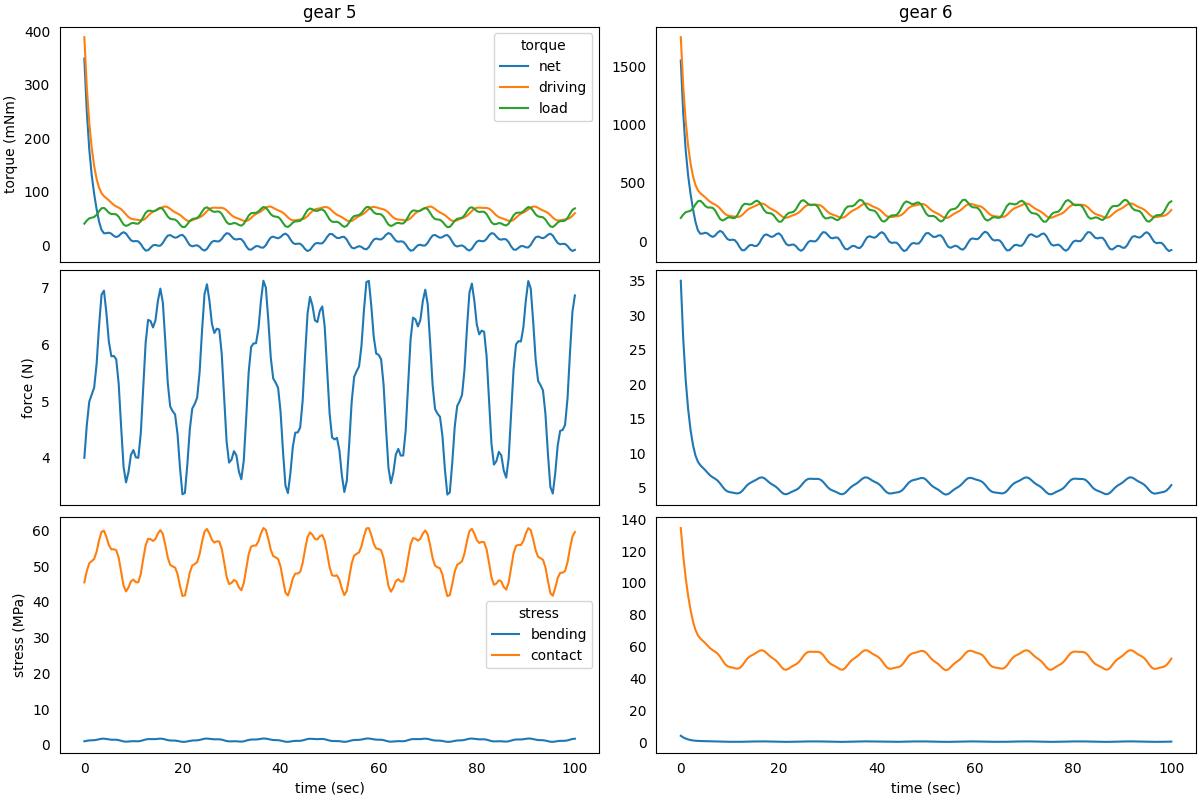
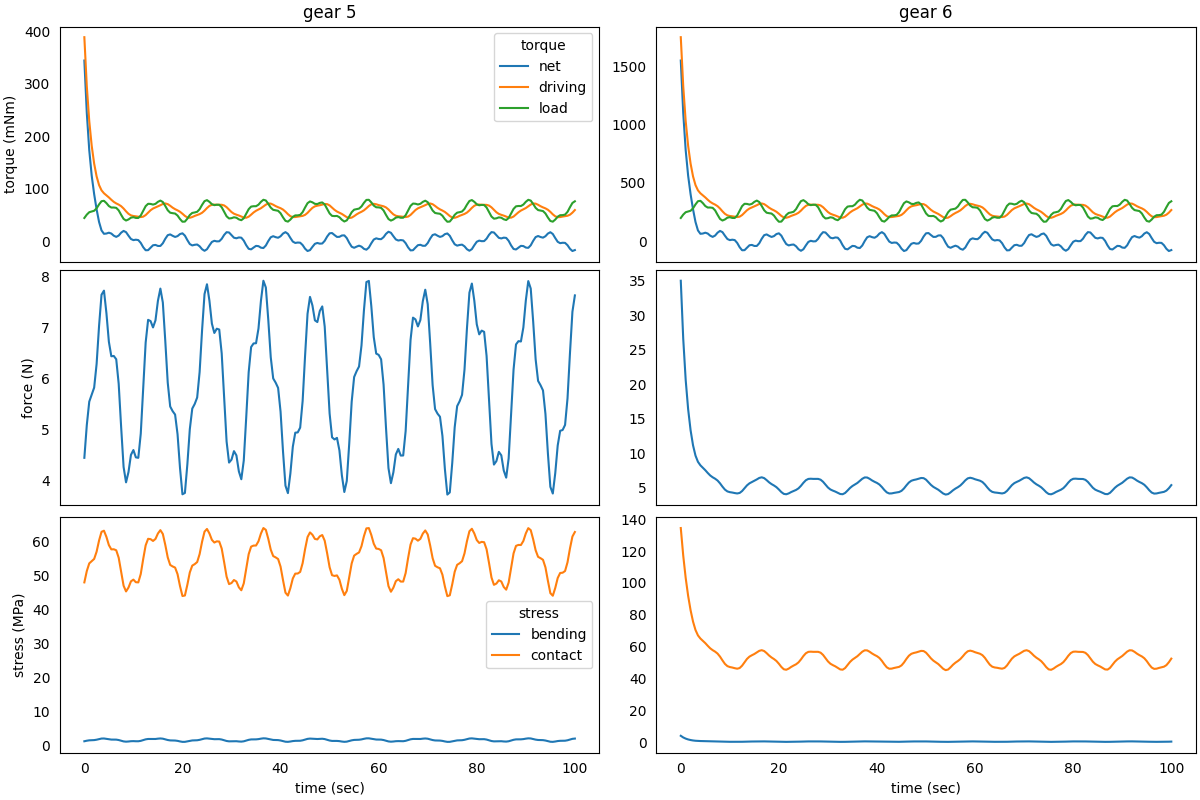
DOC: update documentation examples after fixing bug on torque computation

Changed region(s): [[0.0308, 0.2188, 0.4933, 0.3125], [0.0308, 0.75, 0.0617, 0.8125], [0.0308, 0.6562, 0.0617, 0.6875]]

diff --git a/docs/source/examples/1_simple_powertrain/README.md b/docs/source/examples/1_simple_powertrain/README.md
@@ -54,7 +54,7 @@ gear_6 = SpurGear(name = 'gear 6',
 Then it is necessary to specify the connection types between the 
 components. We choose to study a non-ideal powertrain so, in order to 
 take into account power loss in matings due to friction, we specify a 
-gear mating efficiency below `$100\%$`:
+`$90\%$` gear mating efficiency:
 
 ```python
 from gearpy.utils import add_fixed_joint, add_gear_mating
@@ -127,14 +127,14 @@ powertrain.snapshot(target_time = Time(10, 'sec'))
 ```text
 Mechanical Powertrain Status at Time = 10 sec
           angular position (rad)  angular speed (rad/s)  angular acceleration (rad/s^2)  torque (Nm)  driving torque (Nm)  load torque (Nm)  pwm
-motor                9714.908984            1119.894923                        1.085094     0.000787             0.002871          0.002083  1.0
-flywheel             9714.908984            1119.894923                        1.085094     0.000787             0.002871          0.002083     
-gear 1               9714.908984            1119.894923                        1.085094     0.000787             0.002871          0.002083     
-gear 2               1214.363623             139.986865                        0.135637     0.004001             0.020668          0.016667     
-gear 3               1214.363623             139.986865                        0.135637     0.004001             0.020668          0.016667     
-gear 4                202.393937              23.331144                        0.022606     0.011606             0.111606          0.100000     
-gear 5                202.393937              23.331144                        0.022606     0.011606             0.111606          0.100000     
-gear 6                 40.478787               4.666229                        0.004521     0.002227             0.502227          0.500000          
+motor                9714.908984            1119.894923                        1.085094     0.000013             0.002871          0.002858  1.0
+flywheel             9714.908984            1119.894923                        1.085094     0.000013             0.002871          0.002858     
+gear 1               9714.908984            1119.894923                        1.085094     0.000013             0.002871          0.002858     
+gear 2               1214.363623             139.986865                        0.135637     0.000092             0.020668          0.020576     
+gear 3               1214.363623             139.986865                        0.135637     0.000092             0.020668          0.020576     
+gear 4                202.393937              23.331144                        0.022606     0.000495             0.111606          0.111111     
+gear 5                202.393937              23.331144                        0.022606     0.000495             0.111606          0.111111     
+gear 6                 40.478787               4.666229                        0.004521     0.002227             0.502227          0.500000               
 ```
 
 The default unit used for torques are not so convenient in this case, so 
@@ -151,14 +151,14 @@ powertrain.snapshot(target_time = Time(10, 'sec'),
 ```text
 Mechanical Powertrain Status at Time = 10 sec
           angular position (rot)  angular speed (rad/s)  angular acceleration (rad/s^2)  torque (mNm)  driving torque (mNm)  load torque (mNm)  pwm
-motor                1546.175787            1119.894923                        1.085094      0.787194              2.870527           2.083333  1.0
-flywheel             1546.175787            1119.894923                        1.085094      0.787194              2.870527           2.083333     
-gear 1               1546.175787            1119.894923                        1.085094      0.787194              2.870527           2.083333     
-gear 2                193.271973             139.986865                        0.135637      4.001131             20.667798          16.666667     
-gear 3                193.271973             139.986865                        0.135637      4.001131             20.667798          16.666667     
-gear 4                 32.211996              23.331144                        0.022606     11.606109            111.606109         100.000000     
-gear 5                 32.211996              23.331144                        0.022606     11.606109            111.606109         100.000000     
-gear 6                  6.442399               4.666229                        0.004521      2.227489            502.227489         500.000000          
+motor                1546.175787            1119.894923                        1.085094      0.012731              2.870527           2.857796  1.0
+flywheel             1546.175787            1119.894923                        1.085094      0.012731              2.870527           2.857796     
+gear 1               1546.175787            1119.894923                        1.085094      0.012731              2.870527           2.857796     
+gear 2                193.271973             139.986865                        0.135637      0.091666             20.667798          20.576132     
+gear 3                193.271973             139.986865                        0.135637      0.091666             20.667798          20.576132     
+gear 4                 32.211996              23.331144                        0.022606      0.494998            111.606109         111.111111     
+gear 5                 32.211996              23.331144                        0.022606      0.494998            111.606109         111.111111     
+gear 6                  6.442399               4.666229                        0.004521      2.227489            502.227489         500.000000                    
 ```
 
 Notice that the load torque applied on the *gear 6* is exactly the 
@@ -205,11 +205,4 @@ analysing the time snapshot: at 10 seconds the system is almost in a
 stationary state.  
 We can see that, as the time passes, the driving torque on *gear 6* 
 equals the constant load torque and, as a results, the net torque on the
-gear becomes close to zero.  
-Notice that the driving torque developed by the motor does not equals 
-the load torque: a difference between the two torque is established. 
-This is due to the fact we used a non-optimal gear matings 
-*gear 1*-*gear 2*, *gear 3*-*gear 4* and *gear 5*-*gear 6*, specifying 
-a `$90\%$` efficiency in all cases. As a result, the motor must develop 
-a torque slightly higher than what the load requires, in order to 
-overcome the power loss for friction in the gear matings.
+gear becomes close to zero.

diff --git a/docs/source/examples/3_gear_structural_analysis/README.md b/docs/source/examples/3_gear_structural_analysis/README.md
@@ -72,13 +72,13 @@ powertrain.snapshot(target_time = Time(10, 'sec'),
 ```text
 Mechanical Powertrain Status at Time = 10 sec
           angular position (rad)  angular speed (rad/s)  angular acceleration (rad/s^2)  torque (mNm)  driving torque (mNm)  load torque (mNm) tangential force (N) bending stress (MPa) contact stress (MPa)  pwm
-motor               11510.286813            1375.840709                        5.011918      0.379214              1.241126           0.861912                                                                 1.0
-flywheel            11510.286813            1375.840709                        5.011918      0.379214              1.241126           0.861912                                                                    
-gear 1              11510.286813            1375.840709                        5.011918      0.379214              1.241126           0.861912             0.172382             0.085762            12.916978     
-gear 2               1438.785852             171.980089                        0.626490      2.040811              8.936107           6.895297             0.223403             0.051239            14.704783     
-gear 3               1438.785852             171.980089                        0.626490      2.040811              8.936107           6.895297             0.919373             0.304933            24.803432     
-gear 4                239.797642              28.663348                        0.104415      6.883200             48.254979          41.371780             1.072333             0.169807            26.787411     
-gear 5                239.797642              28.663348                        0.104415      6.883200             48.254979          41.371780             4.137178             1.029149            46.213185     
+motor               11510.286813            1375.840709                        5.011918      0.058805              1.241126           1.182321                                                                 1.0
+flywheel            11510.286813            1375.840709                        5.011918      0.058805              1.241126           1.182321                                                                    
+gear 1              11510.286813            1375.840709                        5.011918      0.058805              1.241126           1.182321             0.236464             0.117644            15.128545     
+gear 2               1438.785852             171.980089                        0.626490      0.423395              8.936107           8.512712             0.223403             0.051239            14.704783     
+gear 3               1438.785852             171.980089                        0.626490      0.423395              8.936107           8.512712             1.135028              0.37646            27.559369     
+gear 4                239.797642              28.663348                        0.104415      2.286335             48.254979          45.968644             1.072333             0.169807            26.787411     
+gear 5                239.797642              28.663348                        0.104415      2.286335             48.254979          45.968644             4.596864             1.143499            48.712974     
 gear 6                 47.959528               5.732670                        0.020883     10.288508            217.147407         206.858899             4.342948             0.532224            47.348488     
 ```
 

diff --git a/docs/source/examples/4_dc_motor_electric_analysis/README.md b/docs/source/examples/4_dc_motor_electric_analysis/README.md
@@ -39,14 +39,14 @@ powertrain.snapshot(target_time = Time(10, 'sec'),
 ```text
 Mechanical Powertrain Status at Time = 10 sec
           angular position (rad)  angular speed (rad/s)  angular acceleration (rad/s^2)  torque (mNm)  driving torque (mNm)  load torque (mNm) electric current (A)  pwm
-motor               11510.286813            1375.840709                        5.011918      0.379214              1.241126           0.861912              0.79574  1.0
-flywheel            11510.286813            1375.840709                        5.011918      0.379214              1.241126           0.861912                          
-gear 1              11510.286813            1375.840709                        5.011918      0.379214              1.241126           0.861912                          
-gear 2               1438.785852             171.980089                        0.626490      2.040811              8.936107           6.895297                          
-gear 3               1438.785852             171.980089                        0.626490      2.040811              8.936107           6.895297                          
-gear 4                239.797642              28.663348                        0.104415      6.883200             48.254979          41.371780                          
-gear 5                239.797642              28.663348                        0.104415      6.883200             48.254979          41.371780                          
-gear 6                 47.959528               5.732670                        0.020883     10.288508            217.147407         206.858899                               
+motor               11510.286813            1375.840709                        5.011918      0.058805              1.241126           1.182321              0.79574  1.0
+flywheel            11510.286813            1375.840709                        5.011918      0.058805              1.241126           1.182321                          
+gear 1              11510.286813            1375.840709                        5.011918      0.058805              1.241126           1.182321                          
+gear 2               1438.785852             171.980089                        0.626490      0.423395              8.936107           8.512712                          
+gear 3               1438.785852             171.980089                        0.626490      0.423395              8.936107           8.512712                          
+gear 4                239.797642              28.663348                        0.104415      2.286335             48.254979          45.968644                          
+gear 5                239.797642              28.663348                        0.104415      2.286335             48.254979          45.968644                          
+gear 6                 47.959528               5.732670                        0.020883     10.288508            217.147407         206.858899                                                         
 ```
 
 We can get a more general view of the system by plotting the time 
@@ -62,7 +62,7 @@ powertrain.plot(figsize = (12, 10),
                              'electric current'])
 ```
 
-![](images/plot_1.png)
+![](images/plot.png)
 
 We can appreciate how the electric current absorbed by the DC motor 
 varies over time, and in particular there is a peak in absorption at the 

diff --git a/docs/source/examples/2_complex_external_torque/README.md b/docs/source/examples/2_complex_external_torque/README.md
@@ -52,14 +52,14 @@ powertrain.snapshot(target_time = Time(10, 'sec'),
 ```text
 Mechanical Powertrain Status at Time = 10 sec
           angular position (rot)  angular speed (rad/s)  angular acceleration (rad/s^2)  torque (mNm)  driving torque (mNm)  load torque (mNm)  pwm
-motor                1831.919043            1375.840709                        5.011918      0.379214              1.241126           0.861912  1.0
-flywheel             1831.919043            1375.840709                        5.011918      0.379214              1.241126           0.861912     
-gear 1               1831.919043            1375.840709                        5.011918      0.379214              1.241126           0.861912     
-gear 2                228.989880             171.980089                        0.626490      2.040811              8.936107           6.895297     
-gear 3                228.989880             171.980089                        0.626490      2.040811              8.936107           6.895297     
-gear 4                 38.164980              28.663348                        0.104415      6.883200             48.254979          41.371780     
-gear 5                 38.164980              28.663348                        0.104415      6.883200             48.254979          41.371780     
-gear 6                  7.632996               5.732670                        0.020883     10.288508            217.147407         206.858899          
+motor                1831.919043            1375.840709                        5.011918      0.058805              1.241126           1.182321  1.0
+flywheel             1831.919043            1375.840709                        5.011918      0.058805              1.241126           1.182321     
+gear 1               1831.919043            1375.840709                        5.011918      0.058805              1.241126           1.182321     
+gear 2                228.989880             171.980089                        0.626490      0.423395              8.936107           8.512712     
+gear 3                228.989880             171.980089                        0.626490      0.423395              8.936107           8.512712     
+gear 4                 38.164980              28.663348                        0.104415      2.286335             48.254979          45.968644     
+gear 5                 38.164980              28.663348                        0.104415      2.286335             48.254979          45.968644     
+gear 6                  7.632996               5.732670                        0.020883     10.288508            217.147407         206.858899               
 ```
 
 We can get a more general view of the system by plotting the time 
@@ -73,7 +73,7 @@ powertrain.plot(elements = ['gear 6', motor],
                 figsize = (8, 6))
 ```
 
-![](images/plot_1.png)
+![](images/plot.png)
 
 We can appreciate the complex shape of the load torque and its effect on
 the system. There is a start up transient up until 10 seconds from the 
